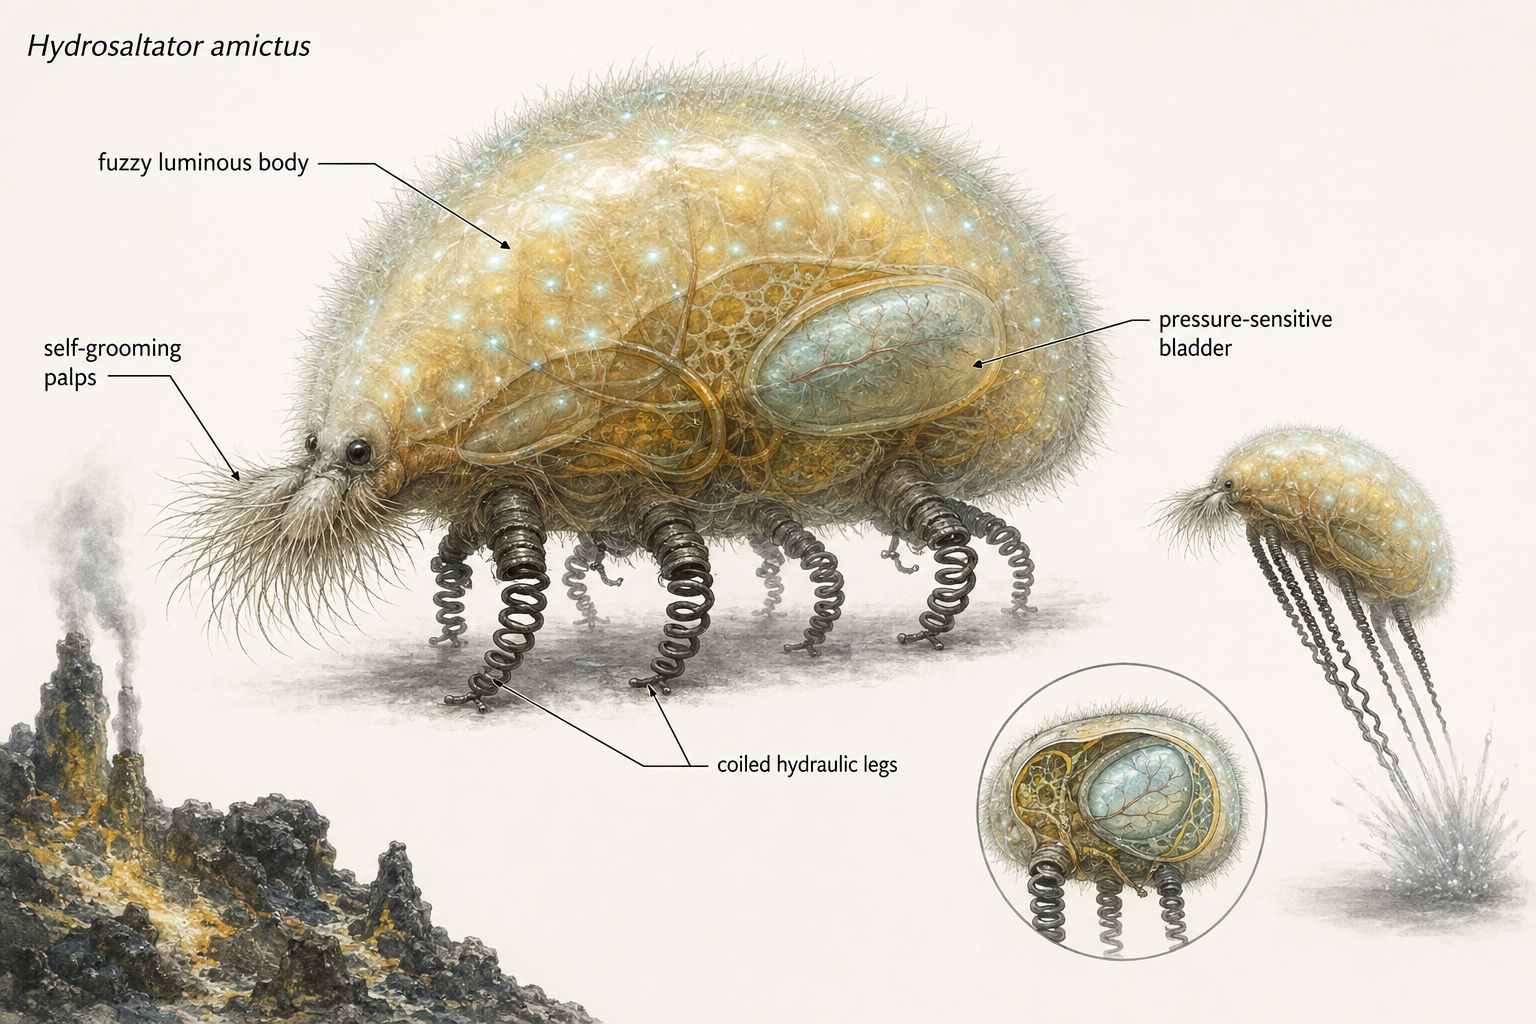
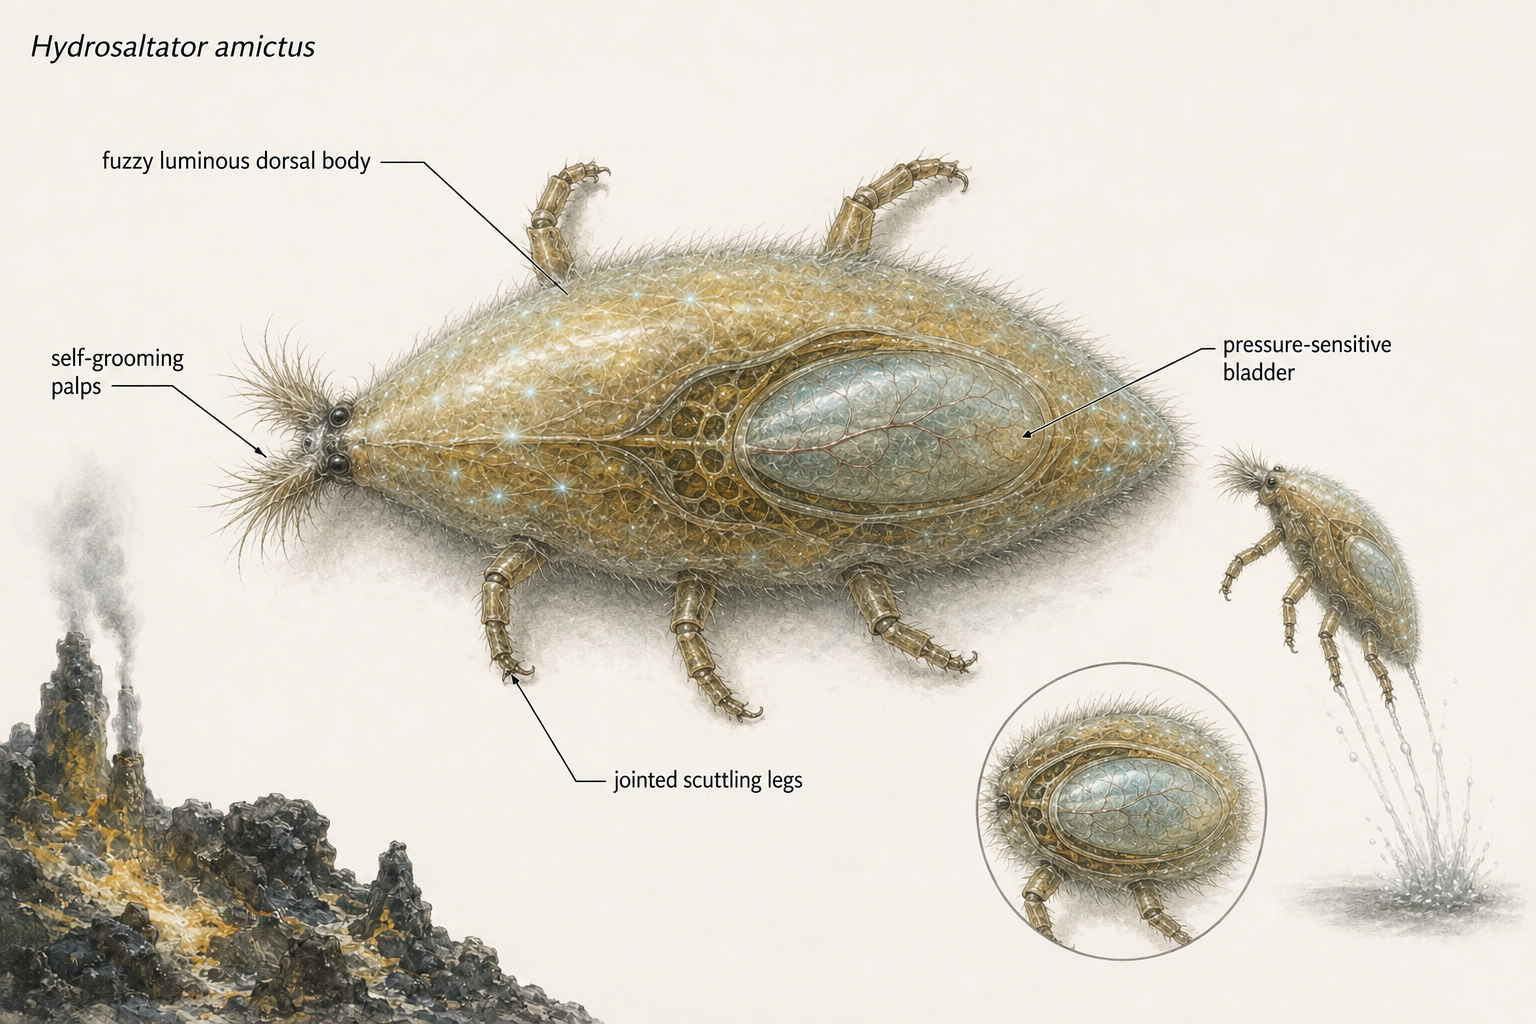
Refine Hydrosaltator top-view diagram

diff --git a/README.md b/README.md
@@ -4,7 +4,7 @@ This repository contains speculative, AI-generated organism profiles and support
 
 ## Featured organism: *Hydrosaltator amictus*
 
-*Hydrosaltator amictus*, also called the Volcanic Spring Tick or Sulfur Spring Tick, is a 0.3 mm deep-sea microbe-associated organism adapted to hydrothermal vents at 2,500-4,960 m depth. It has a fuzzy, glowing, balloon-shaped body, wound-up legs for scuttling and hydraulic leaping, and furry mustache-like palps for sensing and self-grooming. Its active range is 50-85 degrees C, with a tun (cryptobiotic) state below 40 degrees C and a lethal limit above 110 degrees C.
+*Hydrosaltator amictus*, also called the Volcanic Spring Tick or Sulfur Spring Tick, is a 0.3 mm deep-sea microbe-associated organism adapted to hydrothermal vents at 2,500-4,960 m depth. It has an elongated fuzzy, glowing body, articulated legs for scuttling and hydraulic leaping, and furry mustache-like palps for sensing and self-grooming. Its active range is 50-85 degrees C, with a tun (cryptobiotic) state below 40 degrees C and a lethal limit above 110 degrees C.
 
 The organism is described as partially eutelic, with a fixed brain and valves plus a regenerative outer shell. Its proposed symbiotic ecosystem includes *Gelatinicollum vulcanum* as a matrix host, *Sulfuribacillus thermophilus* as a sulfur harvester, and *Saccharoplasma lentus* as a secondary refiner.
 

diff --git a/Hydrosaltator_amictus_Dossier.md b/Hydrosaltator_amictus_Dossier.md
@@ -10,10 +10,10 @@
 
 ## Appearance and Locomotion
 
-*Hydrosaltator amictus* has a fuzzy, glowing, balloon-shaped body wrapped around a pressure-sensitive inner bladder. Its legs remain wound into spring-like coils while resting, then release for rapid scuttling or hydraulic leaps between vent surfaces. The head carries furry, mustache-like palps that sweep the face and shell, functioning as both sensory feelers and enthusiastic self-grooming mechanisms.
+*Hydrosaltator amictus* has an elongated fuzzy, glowing body wrapped around a pressure-sensitive inner bladder. Its articulated legs brace against vent surfaces for rapid scuttling and hydraulic leaps. The head carries furry, mustache-like palps that sweep the face and shell, functioning as both sensory feelers and enthusiastic self-grooming mechanisms.
 
-- **Body:** Soft, luminous, and balloon-shaped with a dense fuzzy coat
-- **Legs:** Wound-up coil limbs for scuttling and hydraulic leaping
+- **Body:** Soft, luminous, and elongated with a dense fuzzy coat
+- **Legs:** Short articulated limbs for scuttling and hydraulic leaping
 - **Head:** Furry mustache-like palps for sensing, grooming, and looking distinguished
 - **Grooming system:** Palps comb mineral dust and sulfur residue from the face valves
 
